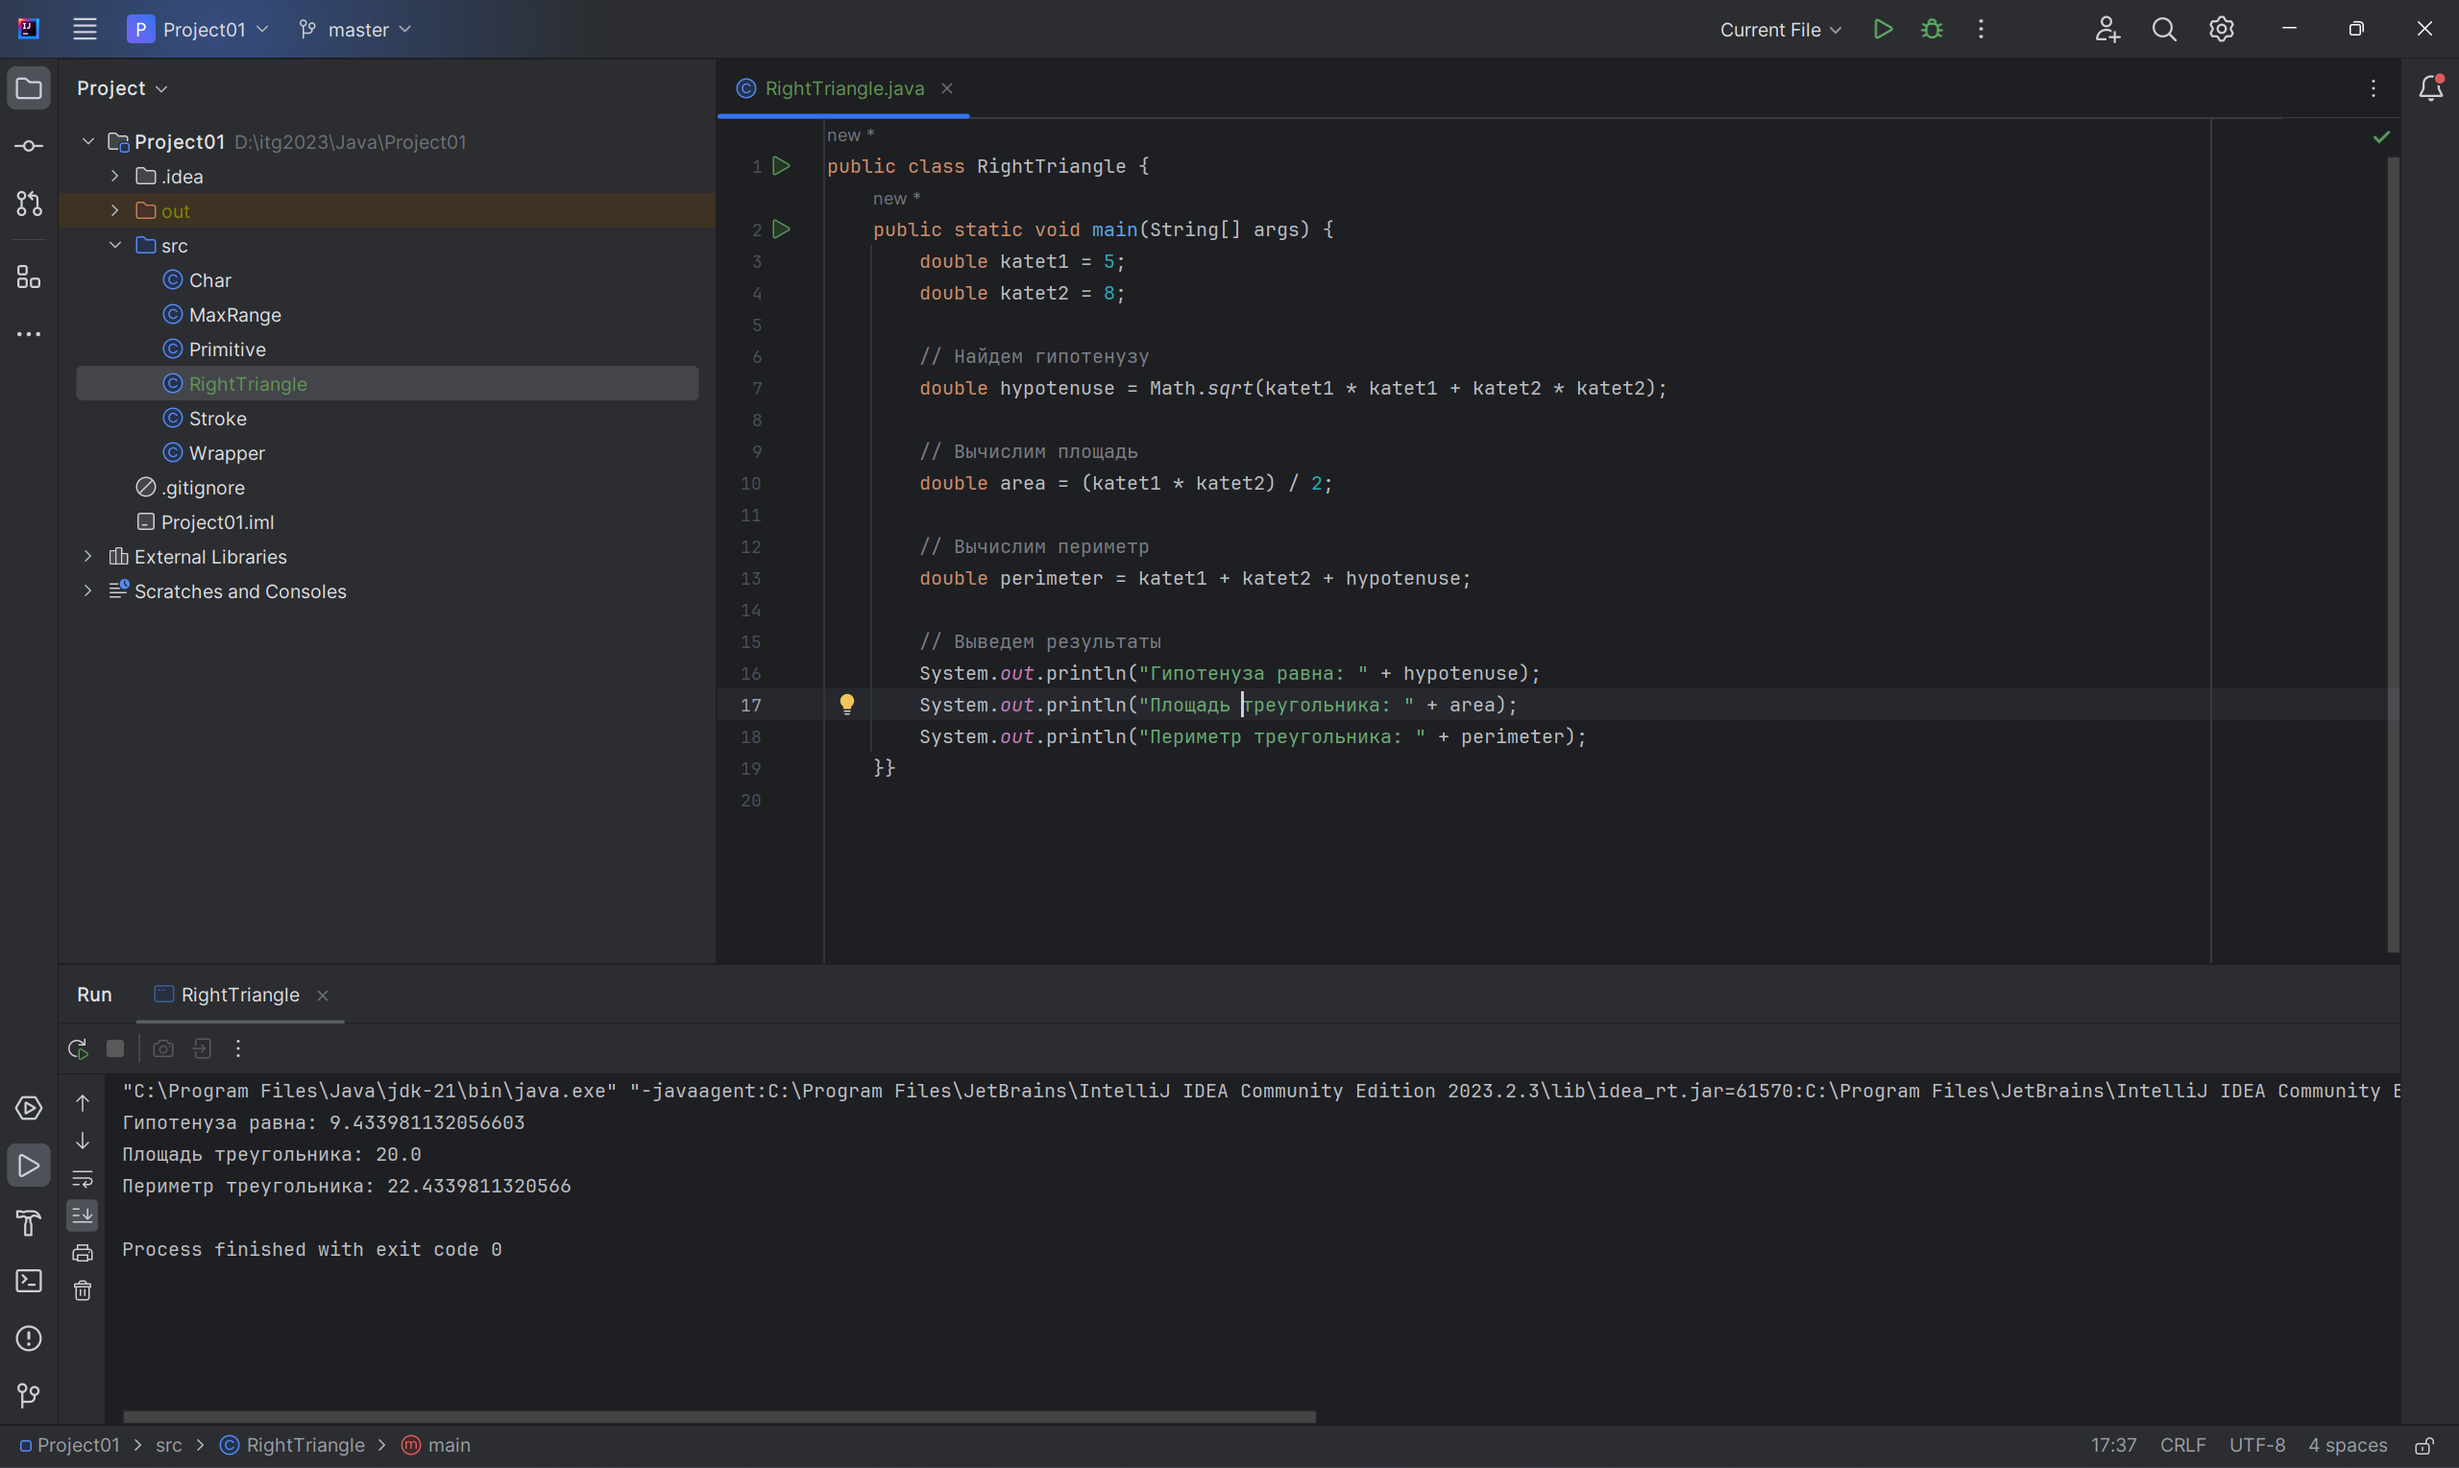
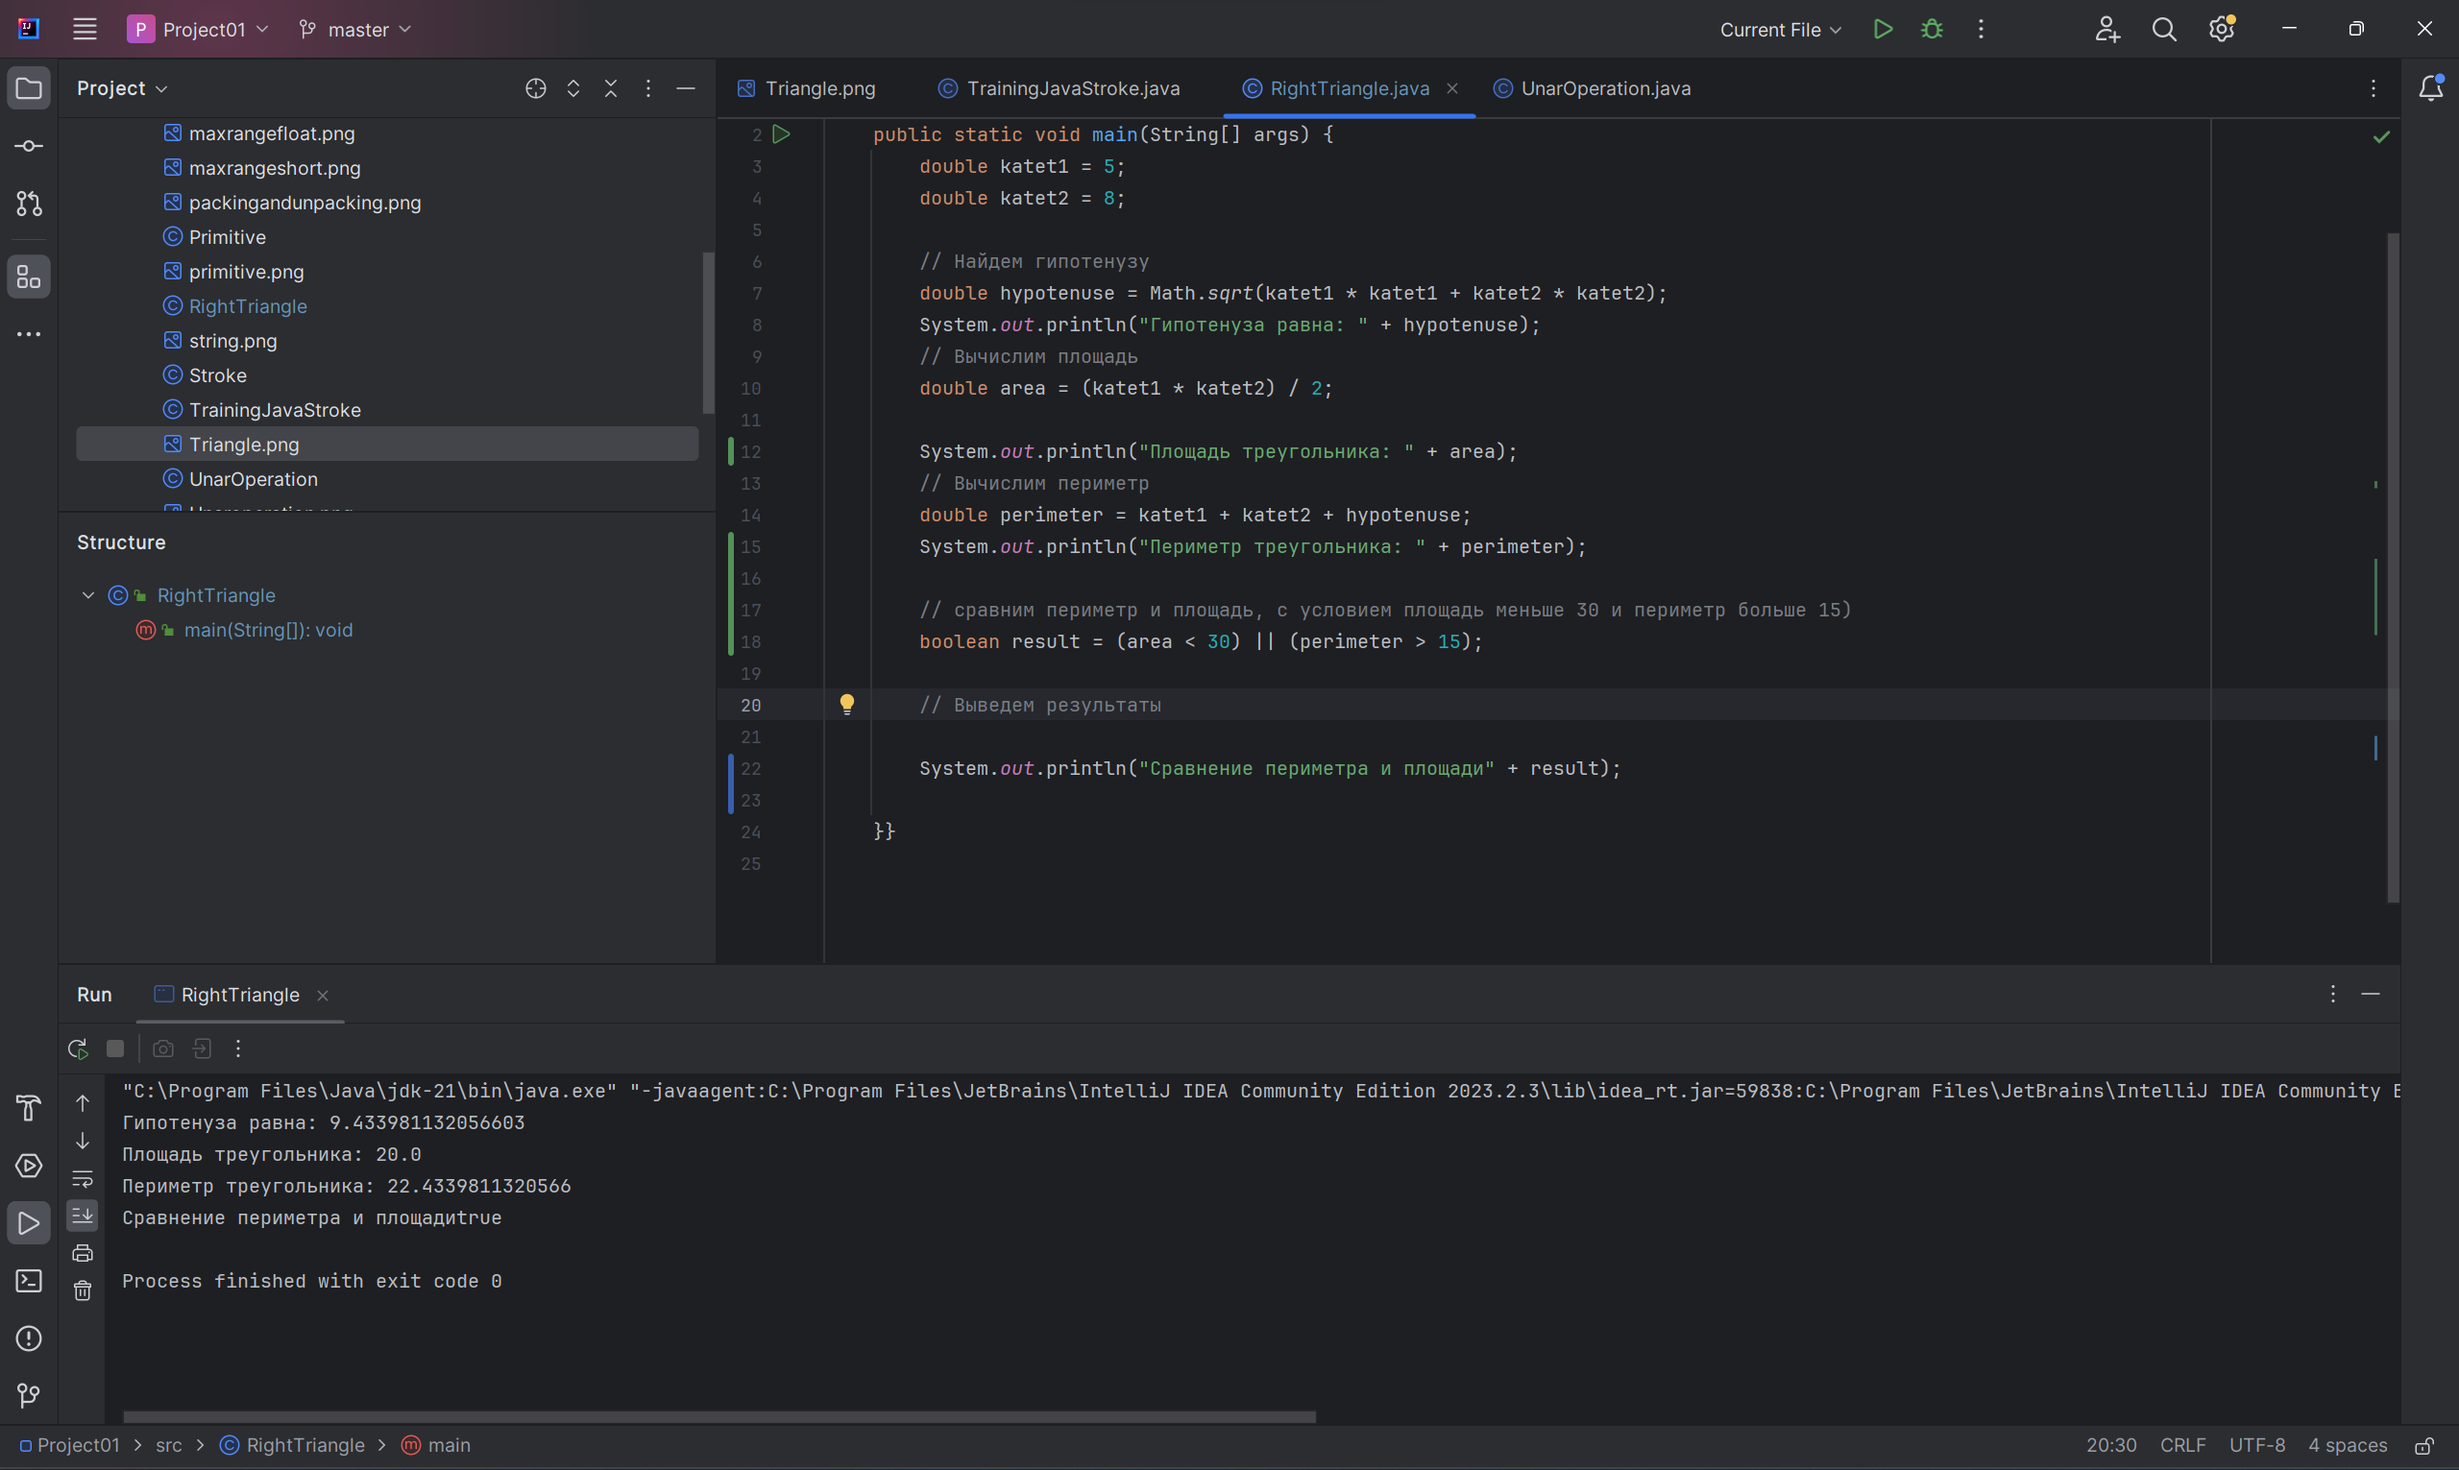
fix triangle

diff --git a/src/RightTriangle.java b/src/RightTriangle.java
@@ -9,11 +9,16 @@ public class RightTriangle {
         // Вычислим площадь
         double area = (katet1 * katet2) / 2;
 
+        System.out.println("Площадь треугольника: " + area);
         // Вычислим периметр
         double perimeter = katet1 + katet2 + hypotenuse;
+        System.out.println("Периметр треугольника: " + perimeter);
+
+        // сравним периметр и площадь, с условием площадь меньше 30 и периметр больше 15)
+        boolean result = (area < 30) || (perimeter > 15);
 
         // Выведем результаты
 
-        System.out.println("Площадь треугольника: " + area);
-        System.out.println("Периметр треугольника: " + perimeter);
+        System.out.println("Сравнение периметра и площади" + result);
+
     }}
